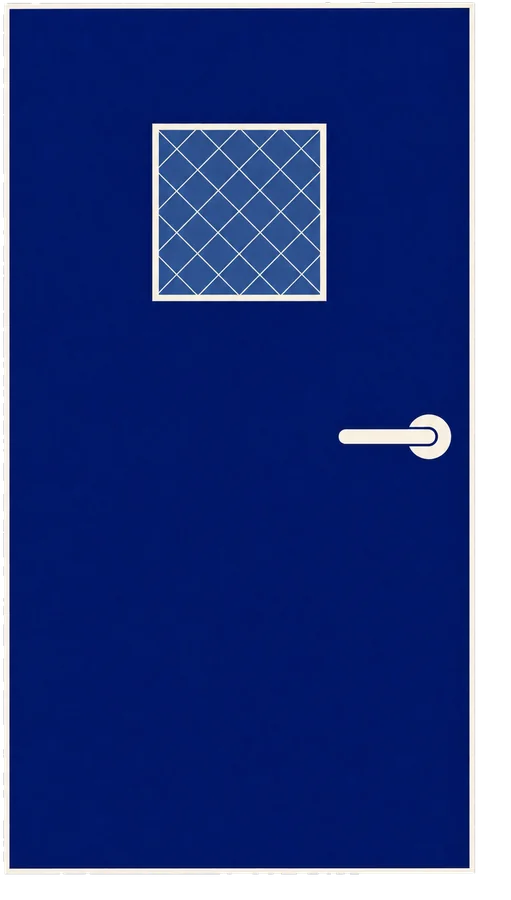
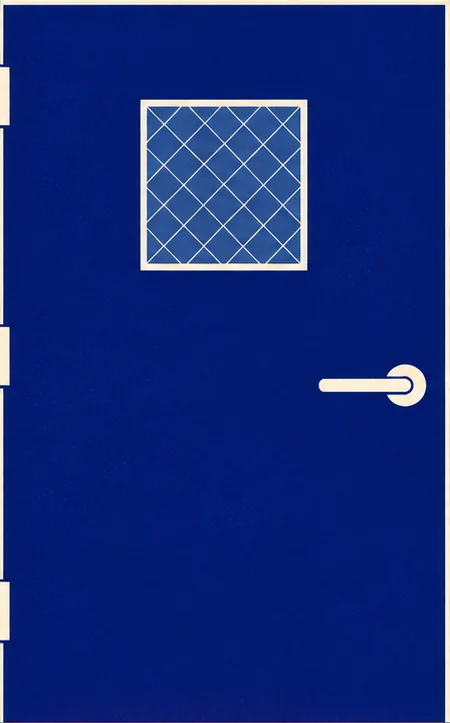
fix: 天台铁门转场重做——门板从场景原图抠出对齐门框，缩短到1.6秒，加入门缝红光、门闩震动、月光泼洒和穿门推镜
Claude-Session: https://claude.ai/code/session_01VGn1LjfLFrFUnkkPdJiL2X

Changed region(s): [[0.0, 0.0, 1.0, 1.0], [0.28, 0.1217, 0.6844, 0.3956]]

diff --git a/src/styles.css b/src/styles.css
@@ -2137,40 +2137,77 @@ button.cal__bond:hover b, button.cal__bond:focus-visible b { text-decoration: un
 .app[data-photo='true'] .cursor { opacity: 0 !important; }
 @media (pointer: coarse) { .cursor { display: none; } }
 
-/* 天台铁门转场（有趣功能 → 联系我，共 2.3 秒）
-   场景按 16:9 铺满画面；门板盖在门洞上，以左侧门轴转开，门洞里透出后面的天台 */
-.roof { position: fixed; inset: 0; z-index: 50; pointer-events: none; overflow: hidden; perspective: 1400px; }
+/* 天台铁门转场（有趣功能 → 联系我，共 1.6 秒）
+   门板直接从场景图里抠出，和门框像素级对齐；门洞里是后面的真实天台页面。
+   节奏：推镜进场 → 门缝红光一闪 → 门闩一顶、画面一震 → 铁门甩开、月光泼进楼梯间 → 镜头穿门而出 */
+.roof { position: fixed; inset: 0; z-index: 50; pointer-events: none; overflow: hidden; background: #000; animation: roof-bg 1.6s both; }
+@keyframes roof-bg { 0%, 40% { background-color: #000; } 55%, 100% { background-color: transparent; } }
+.roof__cam { position: absolute; inset: 0; animation: roof-shake 1.6s both; }
+@keyframes roof-shake {
+  0%, 24% { transform: none; }
+  25% { transform: translate3d(-5px, 2px, 0); }
+  26.5% { transform: translate3d(4px, -2px, 0); }
+  28% { transform: translate3d(-2px, 1px, 0); }
+  30%, 100% { transform: none; }
+}
 .roof__scene {
   position: absolute; left: 50%; top: 50%; width: max(100vw, 177.7vh); aspect-ratio: 1672 / 941; translate: -50% -50%;
-  transform-origin: 50.06% 43.25%; transform-style: preserve-3d;
-  animation: roof-scene 2.3s both;
+  transform-origin: 50.12% 43.04%; perspective: 1100px; perspective-origin: 50.12% 43.04%;
+  animation: roof-scene 1.6s both; will-change: transform, opacity;
 }
 @keyframes roof-scene {
-  0% { opacity: 0; transform: scale(1.06); }
-  12% { opacity: 1; transform: scale(1); }
-  56% { opacity: 1; transform: scale(1.04); animation-timing-function: cubic-bezier(0.6, 0, 0.9, 0.5); }
-  100% { opacity: 0; transform: scale(4); }
+  0% { opacity: 0; transform: scale(1.18); animation-timing-function: var(--ease-snap); }
+  14% { opacity: 1; transform: scale(1.02); animation-timing-function: linear; }
+  44% { opacity: 1; transform: scale(1.06); animation-timing-function: cubic-bezier(0.7, 0, 0.84, 0); }
+  86% { opacity: 1; transform: scale(5.2); }
+  100% { opacity: 0; transform: scale(6.5); }
 }
-/* 墙面挖掉门洞（偶奇填充的多边形），门打开后门洞里就是后面的页面 */
+/* 墙面挖掉门洞（偶奇填充），门打开后门洞里就是后面的页面 */
 .roof__wall {
   position: absolute; inset: 0; background-size: 100% 100%;
-  clip-path: polygon(evenodd, 0 0, 100% 0, 100% 100%, 0 100%, 0 0, 36.84% 5.1%, 36.84% 81.4%, 63.28% 81.4%, 63.28% 5.1%, 36.84% 5.1%);
+  clip-path: polygon(evenodd, 0 0, 100% 0, 100% 100%, 0 100%, 0 0, 36.663% 4.676%, 36.663% 81.509%, 63.577% 81.509%, 63.577% 4.676%, 36.663% 4.676%);
 }
+/* 门洞后的月光：门一开就亮，镜头穿过时变成白闪 */
 .roof__light {
-  position: absolute; left: 36.84%; top: 5.1%; width: 26.44%; height: 76.3%; opacity: 0;
-  background: radial-gradient(ellipse at 50% 60%, rgba(220, 232, 255, 0.85), rgba(120, 160, 255, 0.25) 60%, transparent 85%);
-  animation: roof-light 2.3s both;
+  position: absolute; left: 36.663%; top: 4.676%; width: 26.914%; height: 76.833%; opacity: 0;
+  background: radial-gradient(ellipse 70% 60% at 50% 55%, #f4f8ff 0%, rgba(190, 215, 255, 0.85) 35%, rgba(90, 140, 255, 0.35) 70%, transparent 100%);
+  animation: roof-light 1.6s both;
 }
-@keyframes roof-light { 0%, 30% { opacity: 0; } 50% { opacity: 1; } 100% { opacity: 0; } }
+@keyframes roof-light { 0%, 27% { opacity: 0; } 40% { opacity: 1; } 62% { opacity: 0.55; } 82% { opacity: 1; } 100% { opacity: 0; } }
+/* 门下缝里的红光：开门前呼吸两下 */
+.roof__seam {
+  position: absolute; left: 36.9%; width: 26.4%; top: 80.6%; height: 1.4%; border-radius: 50%;
+  background: #ff6a55; box-shadow: 0 0 1.4vw 0.4vw rgba(255, 90, 70, 0.75);
+  animation: roof-seam 1.6s both;
+}
+@keyframes roof-seam { 0% { opacity: 0.3; } 10% { opacity: 1; } 17% { opacity: 0.5; } 23% { opacity: 1; } 28%, 100% { opacity: 0; } }
+/* 月光泼到台阶上：从门口向下展开的光楔 */
+.roof__spill {
+  position: absolute; left: 0; right: 0; top: 81.509%; bottom: 0; transform-origin: 50% 0; opacity: 0;
+  clip-path: polygon(36.663% 0, 63.577% 0, 86% 100%, 14% 100%);
+  background: linear-gradient(to bottom, rgba(225, 236, 255, 0.75), rgba(160, 190, 255, 0.15) 85%, transparent);
+  animation: roof-spill 1.6s both;
+}
+@keyframes roof-spill { 0%, 28% { opacity: 0; transform: scaleY(0.2); } 46% { opacity: 1; transform: scaleY(1); } 100% { opacity: 1; transform: scaleY(1); } }
+/* 整个楼梯间被门外的冷光照亮 */
+.roof__wash {
+  position: absolute; inset: 0; opacity: 0;
+  background: radial-gradient(ellipse 48% 70% at 50.12% 45%, rgba(200, 220, 255, 0.4), rgba(120, 160, 255, 0.12) 55%, transparent 80%);
+  animation: roof-wash 1.6s both;
+}
+@keyframes roof-wash { 0%, 28% { opacity: 0; } 45%, 100% { opacity: 1; } }
 .roof__door {
-  position: absolute; left: 36.84%; top: 5.1%; width: 26.44%; height: 76.3%; background-size: 100% 100%;
-  transform-origin: 0 50%; backface-visibility: hidden;
-  animation: roof-door 2.3s both;
+  position: absolute; left: 36.663%; top: 4.676%; width: 26.914%; height: 76.833%; background-size: 100% 100%;
+  transform-origin: 0 50%; backface-visibility: hidden; will-change: transform;
+  animation: roof-door 1.6s both;
 }
+/* 转开时门板背光变暗 */
+.roof__door::after { content: ''; position: absolute; inset: 0; background: linear-gradient(to right, rgba(4, 8, 40, 0.15), rgba(2, 4, 24, 0.75)); opacity: 0; animation: roof-door-shade 1.6s both; }
 @keyframes roof-door {
-  0%, 28% { transform: rotateY(0); }
-  31% { transform: rotateY(-4deg); }
-  34% { transform: rotateY(-2deg); animation-timing-function: var(--ease-swift); }
-  56%, 100% { transform: rotateY(-108deg); }
+  0%, 24% { transform: rotateY(0); }
+  25.5% { transform: rotateY(6deg); }
+  27.5% { transform: rotateY(3deg); animation-timing-function: cubic-bezier(0.3, 0, 0.1, 1); }
+  48%, 100% { transform: rotateY(84deg); }
 }
+@keyframes roof-door-shade { 0%, 25% { opacity: 0; } 46%, 100% { opacity: 1; } }
 @media (prefers-reduced-motion: reduce) { .roof { display: none; } }

diff --git a/src/components/RoofDoor.jsx b/src/components/RoofDoor.jsx
@@ -6,15 +6,20 @@ import { images } from '../data/sections.js';
    门外就是天台的夜空，镜头穿门而出。 */
 export default function RoofDoor({ onDone }) {
   useEffect(() => {
-    const id = window.setTimeout(onDone, 2300);
+    const id = window.setTimeout(onDone, 1600);
     return () => window.clearTimeout(id);
   }, [onDone]);
   return (
     <div className="roof" aria-hidden="true">
-      <div className="roof__scene">
-        <div className="roof__wall" style={{ backgroundImage: `url(${images.stairwell})` }} />
-        <span className="roof__light" />
-        <span className="roof__door" style={{ backgroundImage: `url(${images.roofDoor})` }} />
+      <div className="roof__cam">
+        <div className="roof__scene">
+          <span className="roof__light" />
+          <div className="roof__wall" style={{ backgroundImage: `url(${images.stairwell})` }} />
+          <span className="roof__wash" />
+          <span className="roof__spill" />
+          <span className="roof__seam" />
+          <span className="roof__door" style={{ backgroundImage: `url(${images.roofDoor})` }} />
+        </div>
       </div>
     </div>
   );

diff --git a/src/lib/sfx.js b/src/lib/sfx.js
@@ -126,10 +126,11 @@ const SOUNDS = {
   },
   /* 天台铁门：脚步、门闩、沉重的铁门推开，外面的风 */
   roofDoor(a) {
-    [0, 0.18].forEach((d) => tone(a, { type: 'sine', from: 140, to: 90, dur: 0.08, gain: 0.05, delay: d }));
-    tone(a, { type: 'square', from: 420, to: 300, dur: 0.06, gain: 0.03, delay: 0.62 });
-    tone(a, { type: 'sawtooth', from: 70, to: 140, dur: 0.6, gain: 0.03, delay: 0.72 });
-    noise(a, { dur: 1.4, from: 300, to: 1600, q: 0.6, gain: 0.05, delay: 0.85 });
+    tone(a, { type: 'sine', from: 140, to: 90, dur: 0.08, gain: 0.05 });
+    tone(a, { type: 'square', from: 420, to: 260, dur: 0.05, gain: 0.035, delay: 0.38 });
+    tone(a, { type: 'sine', from: 90, to: 55, dur: 0.18, gain: 0.07, delay: 0.39 });
+    tone(a, { type: 'sawtooth', from: 70, to: 150, dur: 0.4, gain: 0.025, delay: 0.44 });
+    noise(a, { dur: 1.1, from: 300, to: 2200, q: 0.6, gain: 0.055, delay: 0.46 });
   },
   /* 石子落水：短促的"扑通"加一点水声 */
   plop(a) {

diff --git a/src/App.jsx b/src/App.jsx
@@ -195,7 +195,7 @@ export default function App() {
               : prev === 'playground' && route.section === 'contact' ? 'roof'
               : null;
     if (kind) {
-      const SWITCH = { arrive: 1300, depart: 620, exit: 520, roof: 560 };
+      const SWITCH = { arrive: 1300, depart: 620, exit: 520, roof: 420 };
       setTrain({ n: Date.now(), kind });
       sfx(kind === 'arrive' ? 'train' : kind === 'depart' ? 'trainDepart' : kind === 'roof' ? 'roofDoor' : 'doorOpen');
       anim.current?.stop();
